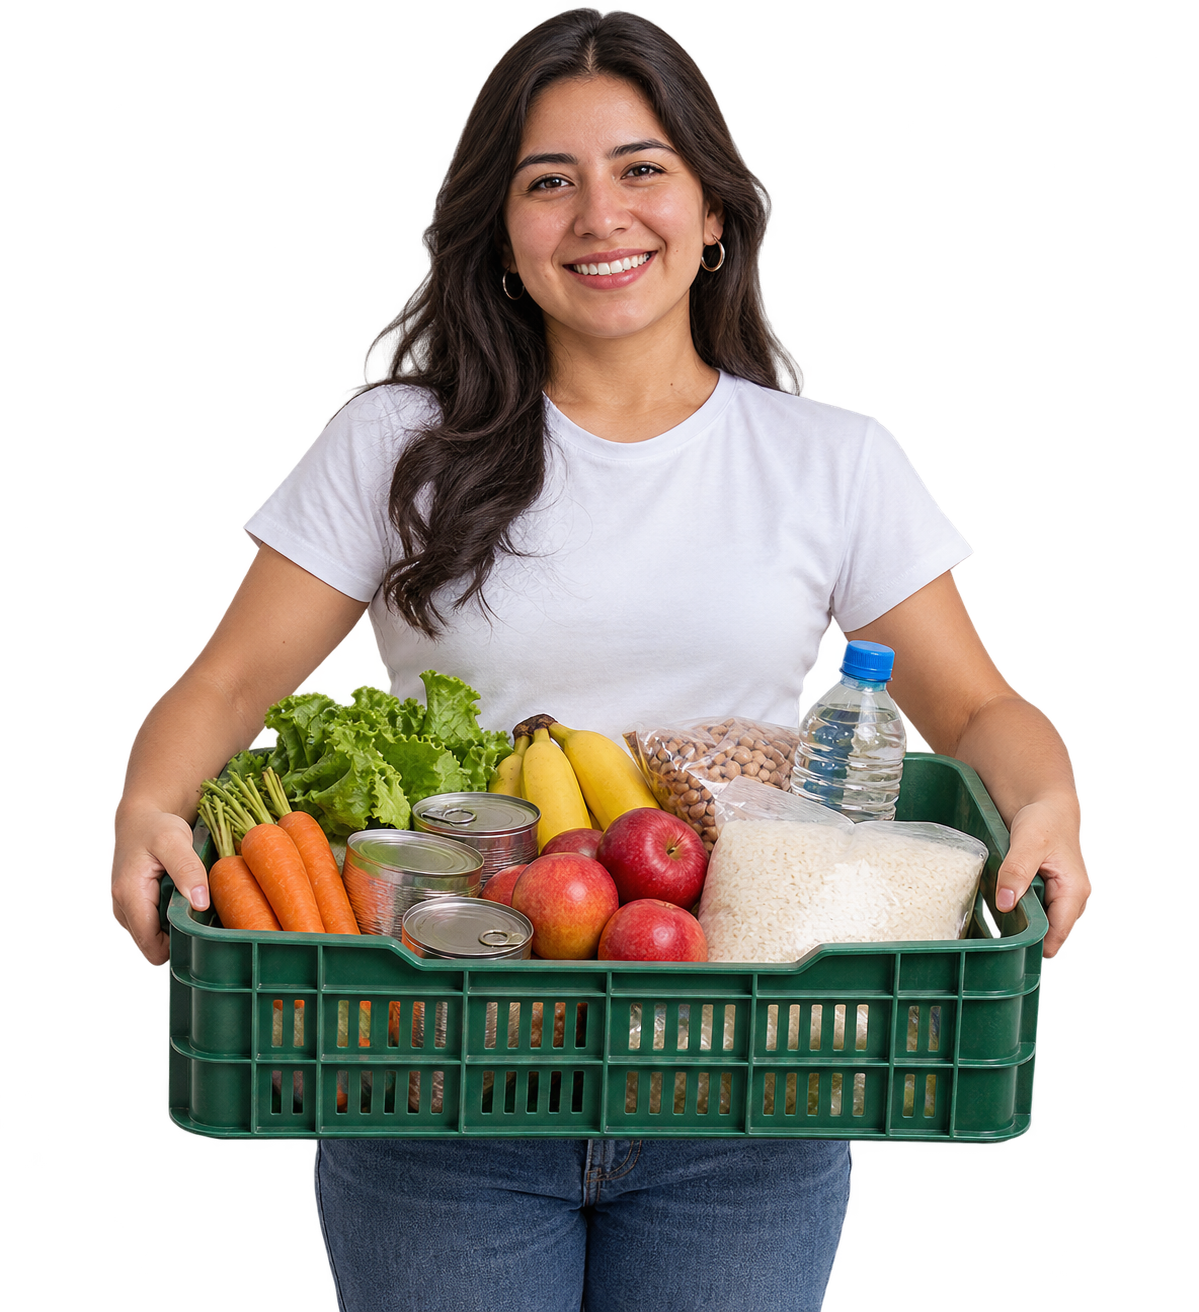
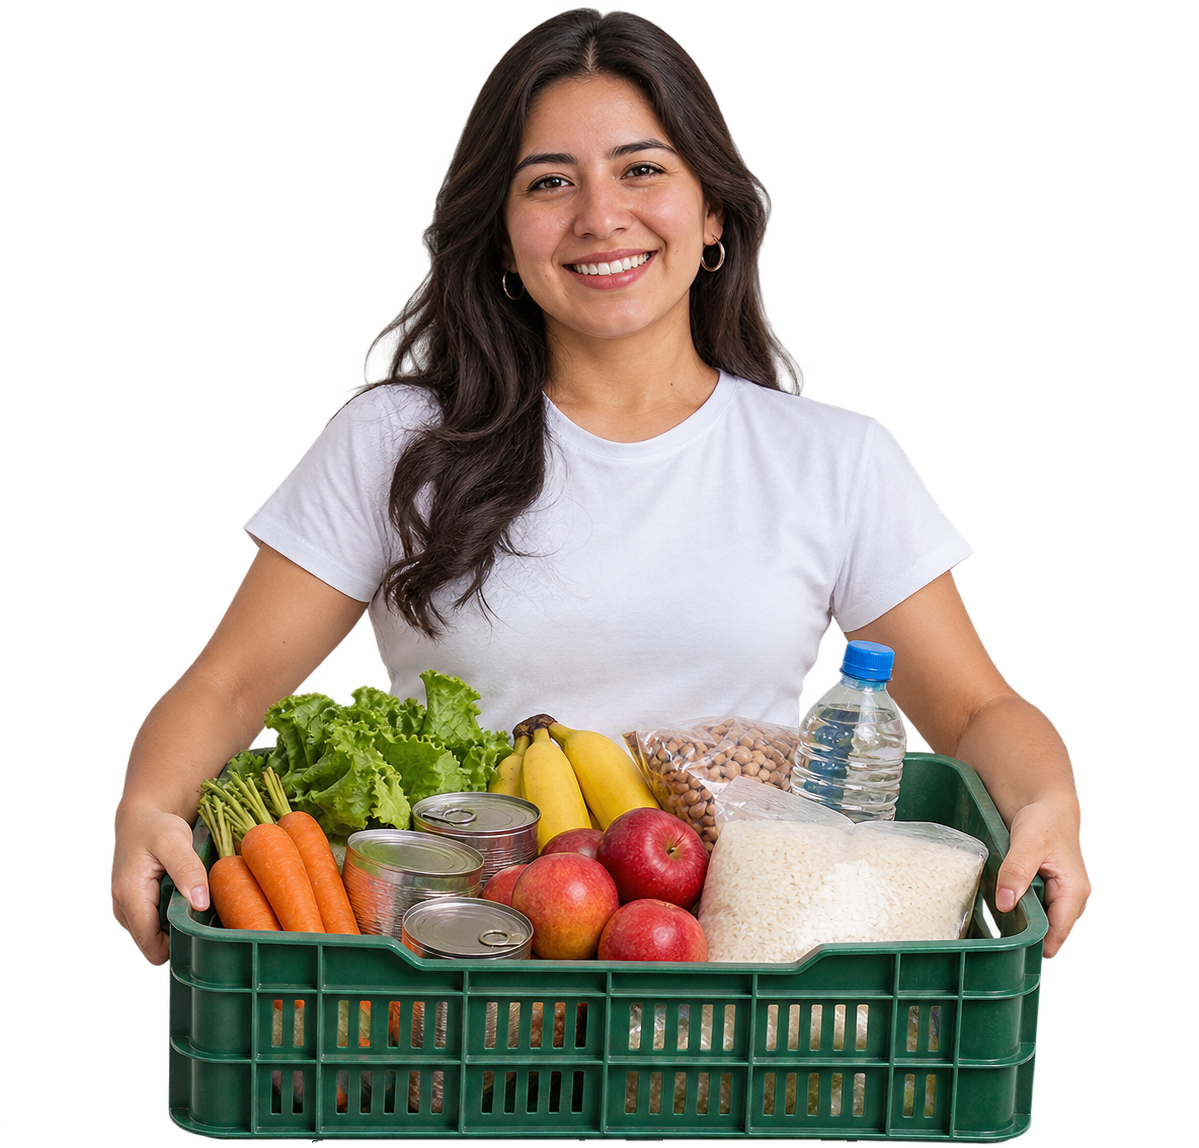
Botón ¡DONA AHORA!

diff --git a/src/components/sections/ChristmasCampaign.tsx b/src/components/sections/ChristmasCampaign.tsx
@@ -3,7 +3,7 @@
 import Image from "next/image";
 import { Fredoka } from "next/font/google";
 import { useRouter } from "next/navigation";
-import { type ReactNode, useEffect, useState } from "react";
+import { type ReactNode, useEffect, useRef, useState } from "react";
 import {
   AlertCircle,
   ArrowRight,
@@ -66,6 +66,8 @@ function GoalPill({
 
 export default function ChristmasCampaign() {
   const router = useRouter();
+  const paymentButtonRef = useRef<HTMLButtonElement | null>(null);
+  const donationSectionRef = useRef<HTMLDivElement | null>(null);
   const [amount, setAmount] = useState(10);
   const [customAmount, setCustomAmount] = useState("");
   const selectedAmount = customAmount === "" ? amount : Number(customAmount);
@@ -287,7 +289,17 @@ export default function ChristmasCampaign() {
               <p className="mt-7 max-w-[320px] text-lg font-semibold leading-tight sm:max-w-[500px] sm:text-2xl lg:text-3xl">
                 Esta Navidad, hagamos <span className="text-[#ffc631]">que llegue</span> el alimento, el abrigo y la esperanza a quienes más lo necesitan.
               </p>
-              <p className="relative z-30 mt-4 inline-flex w-fit rounded-full bg-[#ec6f1d] px-5 py-2 text-lg font-bold text-white shadow-[0_8px_20px_rgba(0,58,89,.22)] sm:mt-5 sm:px-6 sm:py-3 sm:text-3xl lg:text-4xl">¡DONA AHORA!</p>
+              <button
+                type="button"
+                onClick={() => {
+                  const target = paymentButtonRef.current ?? donationSectionRef.current;
+                  target?.scrollIntoView({ behavior: "smooth", block: "center" });
+                  paymentButtonRef.current?.focus({ preventScroll: true });
+                }}
+                className="relative z-30 mt-4 inline-flex w-fit cursor-pointer items-center justify-center rounded-full bg-[#ec6f1d] px-5 py-2 text-lg font-bold text-white shadow-[0_8px_20px_rgba(0,58,89,.22)] transition-all hover:scale-105 hover:bg-[#d85e0c] focus-visible:outline-2 focus-visible:outline-offset-2 focus-visible:outline-white sm:mt-5 sm:px-6 sm:py-3 sm:text-3xl lg:text-4xl"
+              >
+                ¡DONA AHORA!
+              </button>
             </div>
 
             <div aria-hidden="true" className="relative z-0 ml-auto mt-2 w-[64%] max-w-[290px] sm:max-w-[475px] lg:ml-0 lg:mt-0 lg:w-full lg:max-w-[540px] lg:justify-self-end">
@@ -295,7 +307,7 @@ export default function ChristmasCampaign() {
                 src="/navidad-voluntaria.png"
                 alt=""
                 width={1199}
-                height={1312}
+                height={1148}
                 priority
                 className="h-auto w-full drop-shadow-[0_0_7px_rgba(255,255,255,.85)]"
               />
@@ -353,7 +365,7 @@ export default function ChristmasCampaign() {
         </div>
       </div>
 
-      <div className="mx-auto max-w-7xl px-4 pb-14 sm:px-8 sm:pb-20 lg:px-12">
+      <div ref={donationSectionRef} id="donar-deuna" className="mx-auto max-w-7xl px-4 pb-14 sm:px-8 sm:pb-20 lg:px-12">
         <div className="relative -mt-1 rounded-[2rem] bg-[#fffdf8] p-5 shadow-[0_12px_34px_rgba(16,45,76,.1)] sm:p-8 lg:p-10">
           <h2 className="text-xl font-extrabold tracking-tight sm:text-2xl lg:text-3xl">Elige tu monto de donación</h2>
           <div className="mt-4 grid grid-cols-4 gap-2 sm:mt-5 sm:gap-3">
@@ -418,6 +430,7 @@ export default function ChristmasCampaign() {
           {!paymentData ? (
             <>
               <button
+                ref={paymentButtonRef}
                 type="button"
                 onClick={startDonation}
                 disabled={
